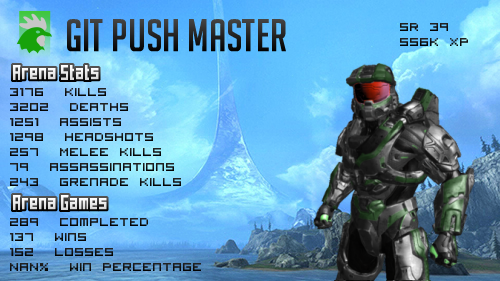
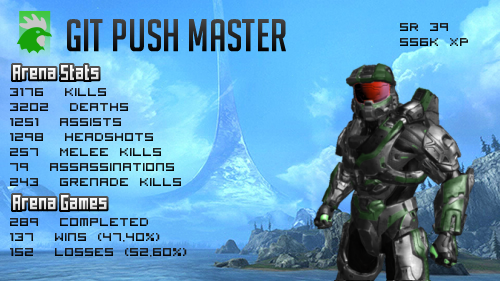
fix: game stats. update sample image.

Changed region(s): [[0.0, 0.8826, 0.42, 0.968], [0.18, 0.8256, 0.33, 0.8541]]

diff --git a/index.js b/index.js
@@ -47,9 +47,8 @@ app.get('/api/:gamerTag/image.jpg', (req, res) => {
             image.print(font, 10, 160, `${stats.ArenaStats.TotalAssassinations}  Assassinations`)
             image.print(font, 10, 175, `${stats.ArenaStats.TotalGrenadeKills}  Grenade Kills`)
             image.print(font, 10, 215, `${stats.ArenaStats.TotalGamesCompleted}  Completed`)
-            image.print(font, 10, 230, `${stats.ArenaStats.TotalGamesWon}  Wins`)
-            image.print(font, 10, 245, `${stats.ArenaStats.TotalGamesLost}  Losses`)
-            image.print(font, 10, 260, `${((stats.ArenaStats.TotalGamesWon / stats.TotalGamesCompleted) * 100).toFixed(2)}%  Win Percentage`)
+            image.print(font, 10, 230, `${stats.ArenaStats.TotalGamesWon}  Wins (${((stats.ArenaStats.TotalGamesWon / stats.ArenaStats.TotalGamesCompleted) * 100).toFixed(2)}%)`)
+            image.print(font, 10, 245, `${stats.ArenaStats.TotalGamesLost}  Losses (${((stats.ArenaStats.TotalGamesLost / stats.ArenaStats.TotalGamesCompleted) * 100).toFixed(2)}%)`)
             return image
           })
         })
